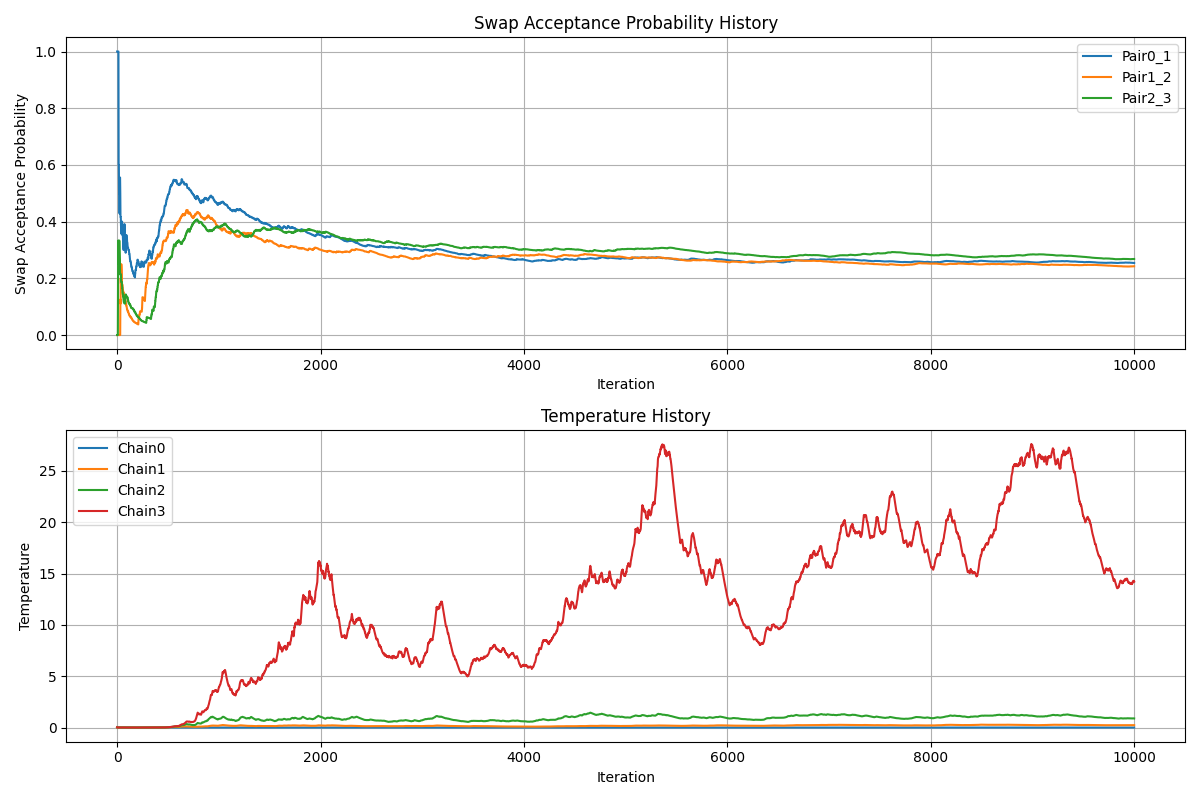
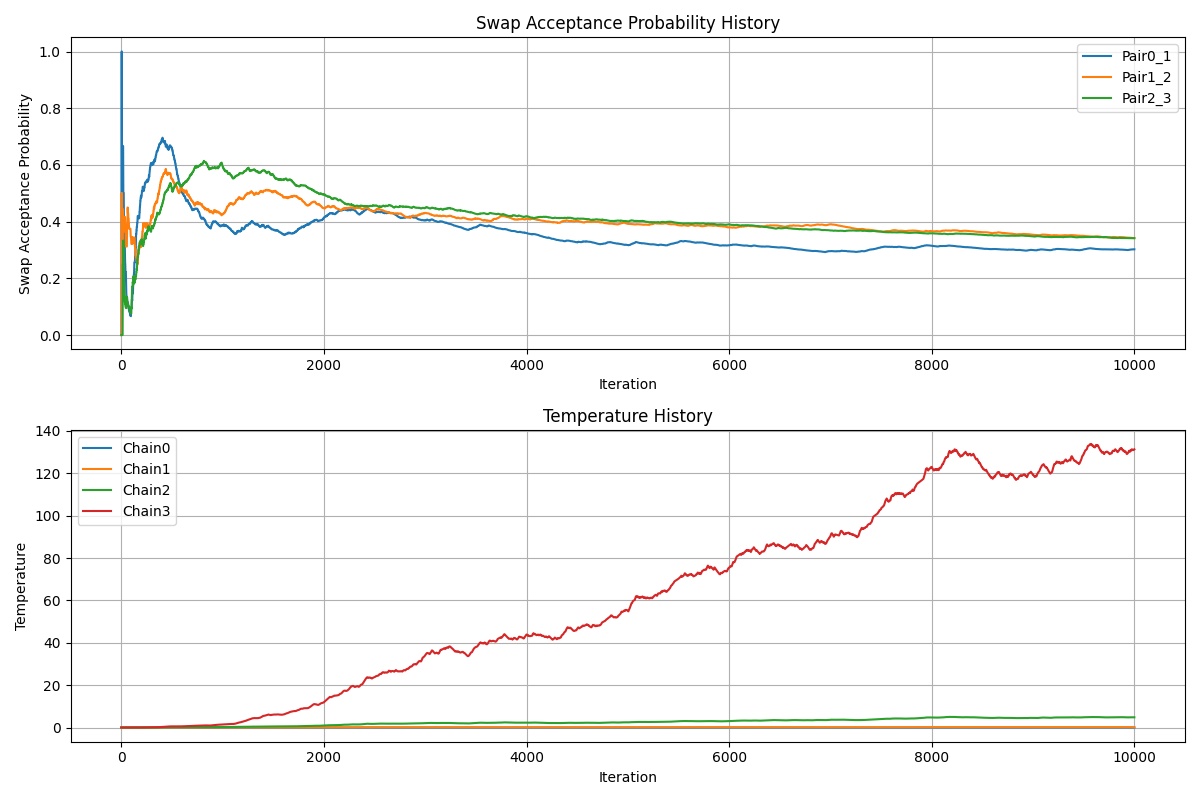
Few modifications

diff --git a/sap_test/adaptive_test.cpp b/sap_test/adaptive_test.cpp
@@ -22,7 +22,7 @@ private:
     std::vector<double> solution_proximity_history;
     std::mt19937 rng;
 
-    constexpr static double TRUE_OPTIMUM = -1.92798;
+    constexpr static double TRUE_OPTIMUM = 0;
     
     double E(double x); // One dimensional Energy function
     double gamma(int t); // Decay function
@@ -43,7 +43,7 @@ AdaptiveParallelTempering::AdaptiveParallelTempering(int n_chains, int n_iter, d
     sap_history.resize(n_chains - 1);
     temp_history.resize(n_chains);
     
-    std::normal_distribution<double> norm(100.0, 10.0);
+    std::normal_distribution<double> norm(10.0, 1.0);
     for (int i = 0; i < n_chains; ++i) {
         chains[i] = norm(rng);
         if (i > 0) betas[i] = betas[i - 1] / 10.0;
@@ -51,7 +51,7 @@ AdaptiveParallelTempering::AdaptiveParallelTempering(int n_chains, int n_iter, d
 }
 
 double AdaptiveParallelTempering::E(double x) {
-    return std::sin(3*x) + std::cos(5*x) + (x*x) / 10;
+    return std::pow(x*x - 100, 2);
 }
 
 double AdaptiveParallelTempering::gamma(int t) {
@@ -117,11 +117,6 @@ void AdaptiveParallelTempering::run() {
         for (int i = 0; i < n_chains; ++i) {
             temp_history[i].push_back(1.0 / betas[i]);
         }
-
-        if (iteration % (n_iter / 10) == 0) {
-            std::cout << "Iteration " << iteration << "/" << n_iter << "\n";
-
-        }
     }
     saveHistory();
 }
@@ -169,7 +164,7 @@ void AdaptiveParallelTempering::saveHistory() const {
 }
 
 int main() {
-    AdaptiveParallelTempering pt(4, 10000, 0.01, 0.234, 2, 2.0 / 3.0);
+    AdaptiveParallelTempering pt(4, 10000, 0.01, 0.234, 0.5, 2.0 / 3.0);
     pt.run();
     return 0;
 }

diff --git a/sap_test/unadaptive_test.cpp b/sap_test/unadaptive_test.cpp
@@ -34,7 +34,7 @@ ParallelTempering::ParallelTempering(int n_chains, int n_iter, double min_temp)
     chains.resize(n_chains);
     betas.assign(n_chains, 1.0 / min_temp);
     
-    std::normal_distribution<double> norm(100.0, 10.0);
+    std::normal_distribution<double> norm(10.0, 1.0);
     for (int i = 0; i < n_chains; ++i) {
         chains[i] = norm(rng);
         if (i > 0) betas[i] = betas[i - 1] / 10.0;
@@ -42,7 +42,7 @@ ParallelTempering::ParallelTempering(int n_chains, int n_iter, double min_temp)
 }
 
 double ParallelTempering::E(double x) {
-    return std::sin(3*x) + std::cos(5*x) + (x*x) / 10;
+    return std::pow(x*x - 100, 2) + x + 10;
 }
 
 void ParallelTempering::metropolis_step(int chain_idx) {
@@ -79,10 +79,6 @@ void ParallelTempering::run() {
 
         double proximity = 1.0 / (1.0 + std::abs(E(best_solution) - TRUE_OPTIMUM));
         solution_proximity_history.push_back(proximity);
-
-        if (iteration % (n_iter / 10) == 0) {
-            std::cout << "Iteration " << iteration << "/" << n_iter << "\n";
-        }
     }
     saveHistory();
 }
